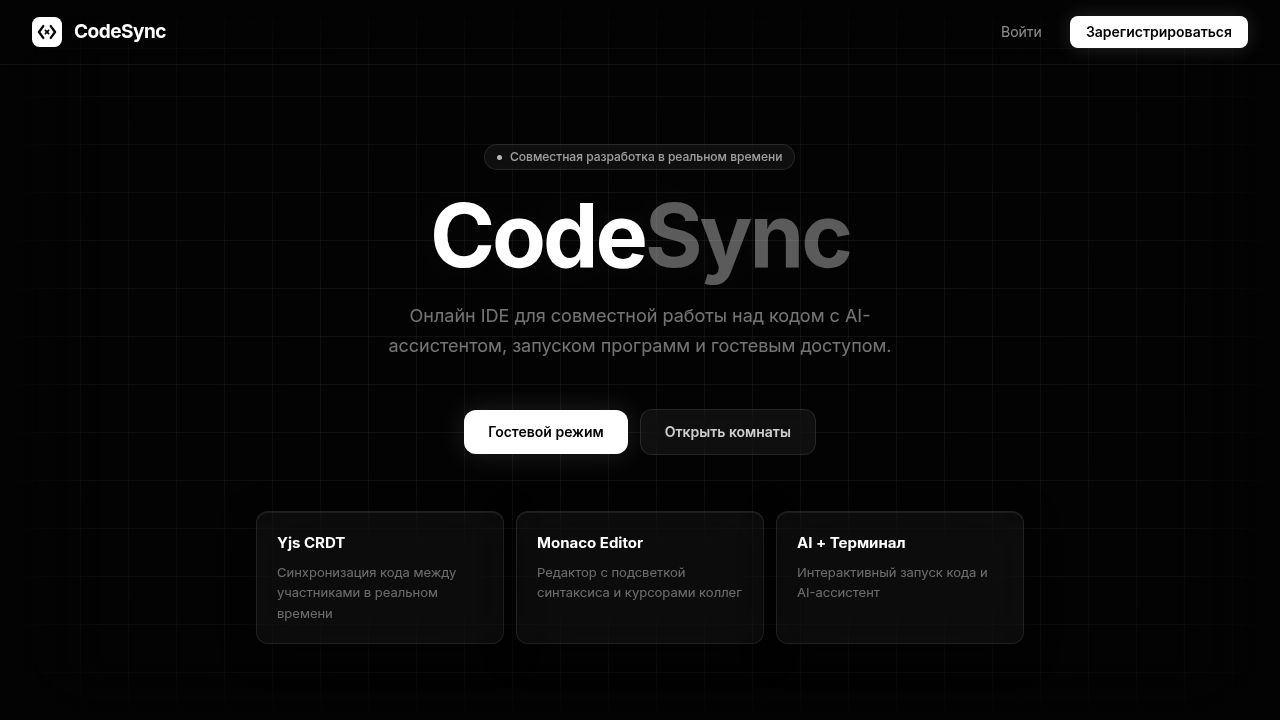
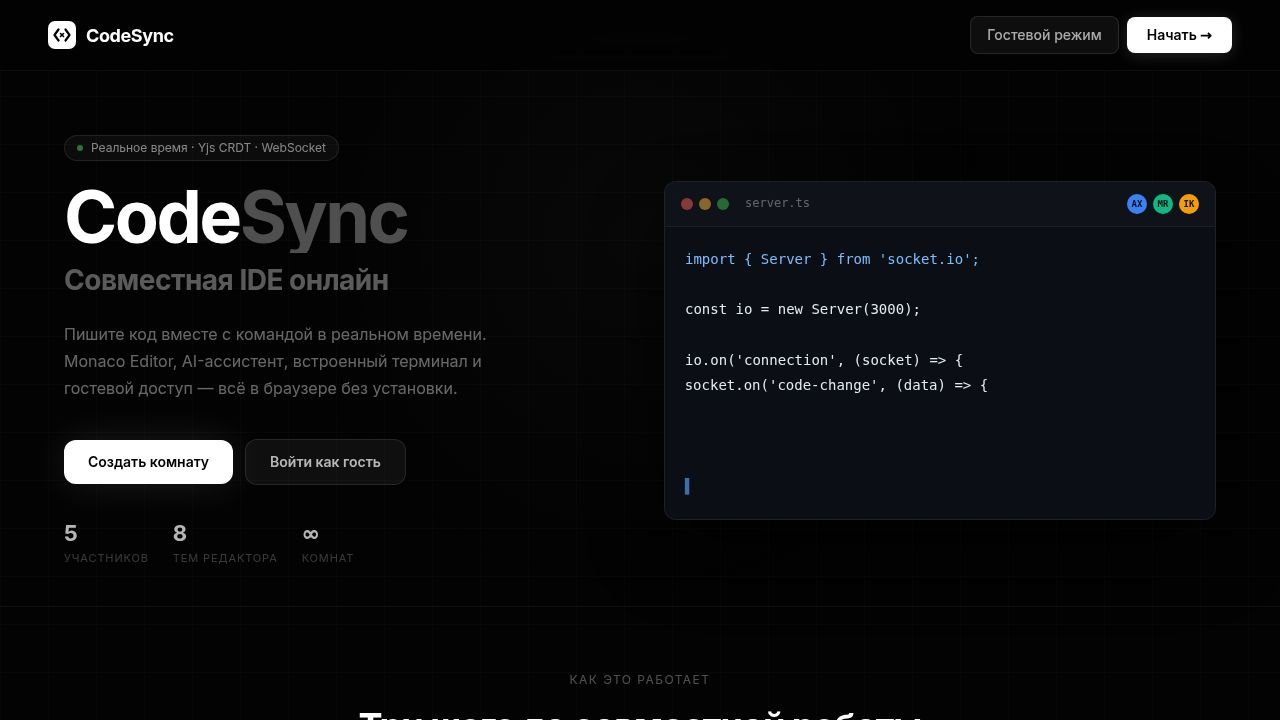
Remove Clerk proxy middleware from production-only mode
Revert Clerk proxy middleware to only run in production, as Clerk's dev-browser sync mechanism requires a direct connection and does not work through a proxy.

Replit-Commit-Author: Agent
Replit-Commit-Session-Id: eb74d07e-0443-4cf0-af17-e8bdc2f7ab90
Replit-Commit-Checkpoint-Type: full_checkpoint
Replit-Commit-Event-Id: bc9a1ee7-e2dd-49f6-9358-906e73837083
Replit-Commit-Screenshot-Url: https://storage.googleapis.com/screenshot-production-us-central1/316bad93-b94b-4233-a171-ca098e11ef33/eb74d07e-0443-4cf0-af17-e8bdc2f7ab90/RK2tmsJ
Replit-Helium-Checkpoint-Created: true

diff --git a/artifacts/api-server/src/middlewares/clerkProxyMiddleware.ts b/artifacts/api-server/src/middlewares/clerkProxyMiddleware.ts
@@ -26,7 +26,8 @@ const CLERK_FAPI = "https://frontend-api.clerk.dev";
 export const CLERK_PROXY_PATH = "/api/__clerk";
 
 export function clerkProxyMiddleware(): RequestHandler {
-  // Only run proxy in production — Clerk proxying doesn't work for dev instances
+  // Only run proxy in production — Clerk's dev-browser sync mechanism requires
+  // a direct browser ↔ Clerk connection and does NOT work through a proxy.
   if (process.env.NODE_ENV !== "production") {
     return (_req, _res, next) => next();
   }